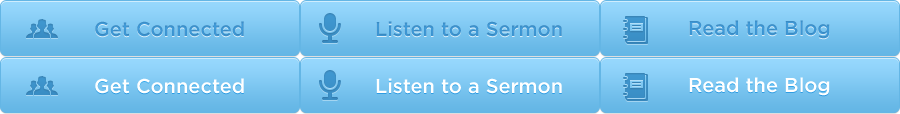
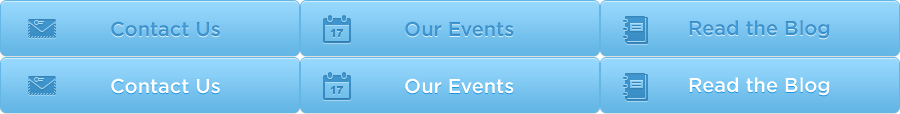
sky theme udpates

diff --git a/themes/sky/css/style.css b/themes/sky/css/style.css
@@ -84,7 +84,7 @@ label.error{background:#FBE3E4;color:#8a1f11;border-color:#FBC2C4;}
 
 /* STRUCTURE */
 #container{width:960px;height:100%;margin:0 auto;}
-#main{ padding-top:20px; background: white url('../images/bg_container.png') no-repeat; min-height:200px; }
+#main{ padding-top:20px; background: white url('../images/bg_container.jpg') no-repeat right top; min-height:200px; }
 #column_left{float:left;width:630px;padding:0 30px 0 0;}
 #column_right{width:300px;float:right;}
 .three_col {width: 290px;float: left;margin-right: 30px;}
@@ -146,7 +146,7 @@ nav.subnav ul li.new_here a {width:300px; height:54px; padding:0;}
 .recent_posts h3 a {color:#126aa7; font: italic normal normal 18px Georgia, serif;}
 .recent_posts p.author {color:#808080; font: 12px/.9 Arial, sans-serif;}
 
-#slider {clear:both;background: white url('../images/bg_slider.png') no-repeat; margin: 20px 0; width:880px; height:285px; padding: 20px 40px; position:relative;}
+#slider {clear:both;background: transparent url('../images/bg_slider.png') no-repeat; margin: 20px 0; width:880px; height:285px; padding: 20px 40px; position:relative;}
 #slider .container { width:880px; height:285px;overflow:hidden; position:relative; cursor:pointer; z-index:3;}
 #slider .slides{ position:absolute; top:0; left:0; list-style:none; display:block; height:283px;}
 #slides .slides div { position:absolute; top:0; width:500px; display:none; }
@@ -193,10 +193,10 @@ nav ul#cta_buttons li{ float:left; margin:0 0 20px 10px;  }
 ul#cta_buttons li{ margin:0 0 10px 0;  }
 ul#cta_buttons li a{ text-indent:-9999px;display:block; background: transparent url(../images/btn_cta.png) no-repeat; width:300px; height: 57px; }
 ul#cta_buttons li.get_connected a{ background-position: 0 0;}
-ul#cta_buttons li.listen_to_sermon a{ background-position: -300px 0; }
+ul#cta_buttons li.our_events a{ background-position: -300px 0; }
 ul#cta_buttons li.read_blog a{ background-position: -600px 0; }
 ul#cta_buttons li.get_connected a:hover { background-position: 0 -57px;}
-ul#cta_buttons li.listen_to_sermon a:hover { background-position: -300px -57px; }
+ul#cta_buttons li.our_events a:hover { background-position: -300px -57px; }
 ul#cta_buttons li.read_blog a:hover { background-position: -600px -57px; }
 /* BIO */
 .bio{ border-bottom:1px solid #dbdbdb; margin-bottom:20px;}
@@ -207,19 +207,6 @@ ul#cta_buttons li.read_blog a:hover { background-position: -600px -57px; }
 ul.contact_nav{ list-style: none inside; margin-bottom:20px; font-family: Arial,sans-serif;}
 ul.contact_nav li{ float:left; margin-right:10px; }
 
-
-/* SERMONS */
-ul.sermons {list-style:none;margin: 0; padding:0;}
-	ul.sermons li{clear:both; margin-bottom: 20px; border-bottom:1px dotted #CCC; padding-bottom:10px;}
-	ul.sermons a.sermon_play_button {display:block; width: 60px; height: 61px; float:left; margin-right: 20px; background: white url(../images/btn_play_sermon.png) no-repeat; text-indent:-9999px; }
-	ul.sermons a.sermon_play_button:hover {background-position:0 -61px;}
-	ul.sermons a.sermon_play_button.playing {background-position:0 bottom;}
-	ul.sermons div.sermon_info{width:550px; float:right; margin-bottom:10px;}
-	ul.sermons h2 {text-decoration: none; font:normal normal bold 18px/1.5em Helvetica, Arial, sans-serif; }
-	ul.sermons .audio_container { clear:both; display:none;}
-	ul.sermons audio { width:100%; }
-.feature_sermon .img_container{ background-color:black; border: 6px solid white; height: 125px; overflow:hidden;}
-.feature_sermon audio { width:274px; }
 
 /* BLOG */
 .blog_tease{clear:both; border-bottom:1px solid #dbdbdb; margin-bottom:20px; padding-bottom:20px;}

diff --git a/lib/navigation.class.php b/lib/navigation.class.php
@@ -61,26 +61,25 @@
 		{
 			$pages = array();
 			if( isset($this->include) ){
-                $sql = "SELECT id, title, slug, type FROM content WHERE type='".ContentType::PAGE."' AND status ='".ContentStatus::PUBLISHED."'";
+                $sql = "SELECT id, title, slug, type, parent_id FROM content WHERE type='".ContentType::PAGE."' AND status ='".ContentStatus::PUBLISHED."'";
 				$sql .= " AND id IN (".$this->sanitize_search( $this->include).")";
 				$sql .= " OR title IN (".$this->sanitize_search( $this->include).")";
 				$sql .= " OR slug IN (".$this->sanitize_search( $this->include).")";
                 $sql .= " ORDER BY weight ASC";
 			}elseif( isset($this->exclude) ) {
-                $sql = "SELECT id, title, slug, type FROM content WHERE type='".ContentType::PAGE."' AND status ='".ContentStatus::PUBLISHED."'";
+                $sql = "SELECT id, title, slug, type, parent_id FROM content WHERE type='".ContentType::PAGE."' AND status ='".ContentStatus::PUBLISHED."'";
 				$sql .= " AND id NOT IN (".$this->sanitize_search($this->exclude ).")";
 				$sql .= " AND title NOT IN (".$this->sanitize_search($this->exclude ).")";
 				$sql .= " AND slug NOT IN (".$this->sanitize_search($this->exclude ).")";
                 $sql .= " ORDER BY weight ASC";
 			}else{
-                $sql = "SELECT id, title, slug, type FROM content WHERE type='".ContentType::PAGE."' AND status ='".ContentStatus::PUBLISHED."' ORDER BY weight ASC";
+                $sql = "SELECT id, title, slug, type, parent_id FROM content WHERE type='".ContentType::PAGE."' AND status ='".ContentStatus::PUBLISHED."' ORDER BY weight ASC";
             }
             $pages = Page::find_by_sql($sql);
 			if( !empty( $pages) )  {
                 $nav = '<'. $this->nav_tag .' class="'. $this->root_class .'">';
                 foreach ($pages as $page) {
-                    if($page->parent_id == 0){
-
+                    if(!$page->is_child()){
 						//sub-nav
                         $subnav = $page->children();
                         $on = $this->is_on($page->id, $subnav)." ";
@@ -254,7 +253,7 @@
 		/**
 		 * Depricated
 		 **/		
-		private function remove_excuded($pages, $excludes)
+		private function remove_subpages($pages, $excludes)
 		{
 			foreach ($pages as $key => $value){
 				for ($i=0; $i < count($excludes); $i++) {

diff --git a/themes/sky/footer.php b/themes/sky/footer.php
@@ -6,16 +6,7 @@
 		<footer>
 			<div class="divide">&nbsp;</div>
 			<div class="three_col">
-				<?php
-				$datecalc = strtotime('Sunday');
-				$datesearch = date('l, F jS',$datecalc);
-				?>
-				<h3>Store Hours</h3>
-				<ul>
-				<li><strong><?php echo $datesearch; ?></strong></li>				
-				<li><strong>9:15</strong> at <em>Edmonds Conference Center</em></li>
-				<li><strong>11:00</strong> at <em>North Sound Church</em></li>
-				</ul>
+				<?php echo $options->footer_column; ?>
 			</div>
 			<div class="three_col">
 				<h3>Contact Information</h3>
@@ -27,8 +18,14 @@
 			</div>
 			<div class="three_col last">
 				<h3>Follow us on...</h3>
-				<a href="http://www.facebook.com/northsoundchurch"><img src="<?php echo image_directory(); ?>/icn_facebook_32.png" width="32" height="32" alt="Icn Facebook 32"></a>
-				<a href="http://twitter.com/NSCedmonds"><img src="<?php echo image_directory(); ?>/icn_twitter_32.png" width="32" height="32" alt="Icn Twitter 32"></a>
+				<?php if(isset($options->facebook)): ?>
+				<a href="<?php echo $options->facebook; ?>"><img src="<?php echo image_directory(); ?>/icn_facebook_32.png" width="32" height="32" alt="Icn Facebook 32"></a>
+				<?php 
+				endif;
+				if(isset($options->twitter)):
+				?>
+				<a href="<?php echo $options->twitter; ?>"><img src="<?php echo image_directory(); ?>/icn_twitter_32.png" width="32" height="32" alt="Icn Twitter 32"></a>
+				<?php endif; ?>
 			</div>
 		</footer>
 	</div> <!-- end of #container -->

diff --git a/themes/sky/column_blog.php b/themes/sky/column_blog.php
@@ -1,7 +1,7 @@
 <div id="column_right">
 	<ul id="cta_buttons">
-		<li class="get_connected"><?php echo Navigation::get_link('Contact Us', true); ?></li>
-		<li class="listen_to_sermon"><?php echo Navigation::get_link('Sermons', true) ?></li>
+		<li class="get_connected"><?php echo Navigation::get_link('Contact', true); ?></li>
+		<li class="our_events"><?php echo Navigation::get_link('Events', true); ?></li>
 		<li class="read_blog"><?php echo Navigation::get_link('Blog', true) ?></li>
 	</ul>
 	<?php// include_widget('tags.php'); ?>

diff --git a/themes/sky/column_right.php b/themes/sky/column_right.php
@@ -8,8 +8,8 @@
 
 <div id="column_right">
 	<ul id="cta_buttons">
-		<li class="get_connected"><?php echo Navigation::get_link('Contact Us', true); ?></li>
-		<li class="listen_to_sermon"><?php echo Navigation::get_link('Sermons', true) ?></li>
+		<li class="get_connected"><?php echo Navigation::get_link('Contact', true); ?></li>
+		<li class="our_events"><?php echo Navigation::get_link('Events', true); ?></li>
 		<li class="read_blog"><?php echo Navigation::get_link('Blog', true) ?></li>
 	</ul>
 	<nav class="subnav">

diff --git a/themes/sky/templates/home.template.php b/themes/sky/templates/home.template.php
@@ -33,6 +33,7 @@
 <nav>		
 	<ul id="cta_buttons">
 		<li class="get_connected"><?php echo Navigation::get_link('Contact', true); ?></li>
+		<li class="our_events"><?php echo Navigation::get_link('Events', true); ?></li>
 		<li class="read_blog"><?php echo Navigation::get_link('Blog', true) ?></li>
 	</ul>
 </nav>

diff --git a/lib/page.class.php b/lib/page.class.php
@@ -31,6 +31,9 @@
 			}
 			return $result;
 		}
+		public function is_child() {
+			return ( isset($this->parent_id) || !empty($this->parent_id) );
+		}
 		
 		/**
 		 * Retrives all the files in the templates directory
